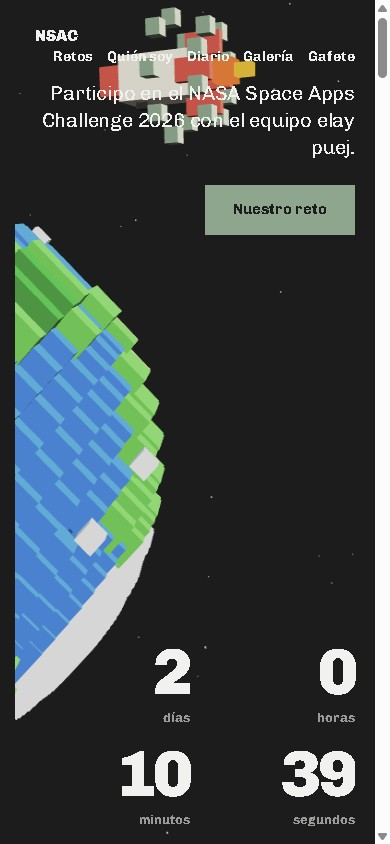
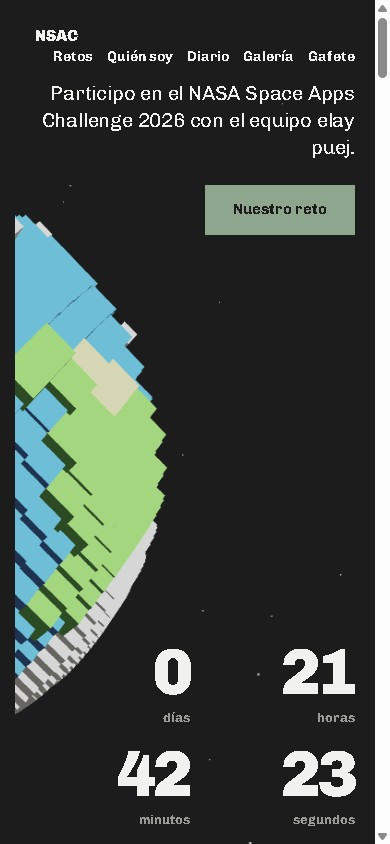
diario: el gafete ya esta impreso, og a menos de 22 horas

diff --git a/index.html b/index.html
@@ -4,7 +4,7 @@
 <meta charset="utf-8">
 <meta name="viewport" content="width=device-width, initial-scale=1.0">
 <title>elay puej — NASA Space Apps Challenge 2026 | Alejandro Sosa</title>
-<meta name="description" content="Participo en el NASA Space Apps Challenge 2026 desde Santa Cruz de la Sierra con el equipo elay puej y el reto Field Shift. Faltan 2 días para el inicio: sábado 14 de noviembre, 9:00 en Bolivia. Cuenta regresiva en vivo y diario del hackathon.">
+<meta name="description" content="Participo en el NASA Space Apps Challenge 2026 desde Santa Cruz de la Sierra con el equipo elay puej y el reto Field Shift. Faltan menos de 22 horas para el inicio: sábado 14 de noviembre, 9:00 en Bolivia. Cuenta regresiva en vivo y diario del hackathon.">
 <meta name="author" content="Alejandro Sosa Briceño">
 <meta name="robots" content="index, follow, max-image-preview:large">
 <link rel="canonical" href="https://asosab.github.io/NSAC/">
@@ -13,7 +13,7 @@
 <meta property="og:type" content="website">
 <meta property="og:site_name" content="NSAC — NASA Space Apps 2026">
 <meta property="og:title" content="elay puej — NASA Space Apps Challenge 2026">
-<meta property="og:description" content="Faltan 2 días para el hackathon más grande del mundo: sábado 14 de noviembre a las 9:00 (hora de Bolivia). Equipo elay puej, reto Field Shift, cuenta regresiva en vivo y diario del evento.">
+<meta property="og:description" content="Faltan menos de 22 horas para el hackathon más grande del mundo: sábado 14 de noviembre a las 9:00 (hora de Bolivia). Equipo elay puej, reto Field Shift, cuenta regresiva en vivo y diario del evento.">
 <meta property="og:url" content="https://asosab.github.io/NSAC/">
 <meta property="og:image" content="https://asosab.github.io/NSAC/assets/img/og-cover.jpg">
 <meta property="og:image:width" content="390">
@@ -26,7 +26,7 @@
 <meta name="twitter:site" content="@asosab">
 <meta name="twitter:creator" content="@asosab">
 <meta name="twitter:title" content="elay puej — NASA Space Apps Challenge 2026">
-<meta name="twitter:description" content="Faltan 2 días: sábado 14 a las 9:00, hora de Bolivia. Equipo elay puej, reto Field Shift, cuenta regresiva en vivo y diario del hackathon.">
+<meta name="twitter:description" content="Faltan menos de 22 horas: sábado 14 a las 9:00, hora de Bolivia. Equipo elay puej, reto Field Shift, cuenta regresiva en vivo y diario del hackathon.">
 <meta name="twitter:image" content="https://asosab.github.io/NSAC/assets/img/og-cover.jpg">
 <meta name="twitter:image:alt" content="Planeta Tierra de bloques estilo Minecraft a la izquierda y cuenta regresiva gigante a la derecha.">
 

diff --git a/_posts/2026-11-13-gafete-1110.md b/_posts/2026-11-13-gafete-1110.md
@@ -1,0 +1,11 @@
+---
+layout: post
+title: "El gafete ya está impreso"
+description: "Imprimí la credencial del Space Apps y la enfundé: el gafete es a los eventos lo que la camiseta de «fui a Grecia» es a los viajes. Ojalá el software también quede"
+---
+
+Imprimí la credencial que generé el otro día y ya está enfundada, lista para mañana.
+
+![El gafete impreso y enfundado: NASA Space Apps Challenge 2026, Santa Cruz, Alejandro Sosa Briceño, equipo elay puej, astronauta]({{ '/assets/img/diario/2026-11-13-9b75e68f.jpg' | relative_url }})
+
+El gafete es a los eventos lo que la camiseta de «fui a Grecia y lo único que me traje fue esta pinche camiseta» es a los viajes: la prueba material de que estuviste. Bueno, ojalá el software también quede.
